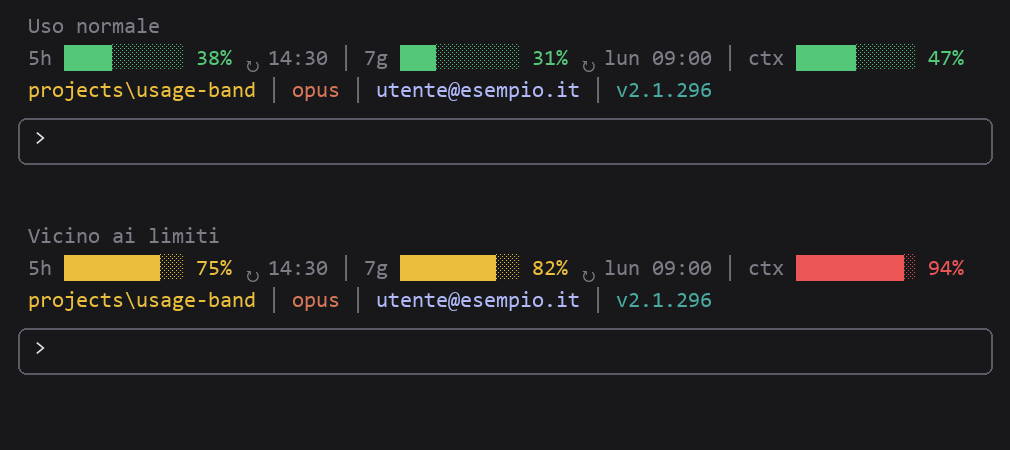
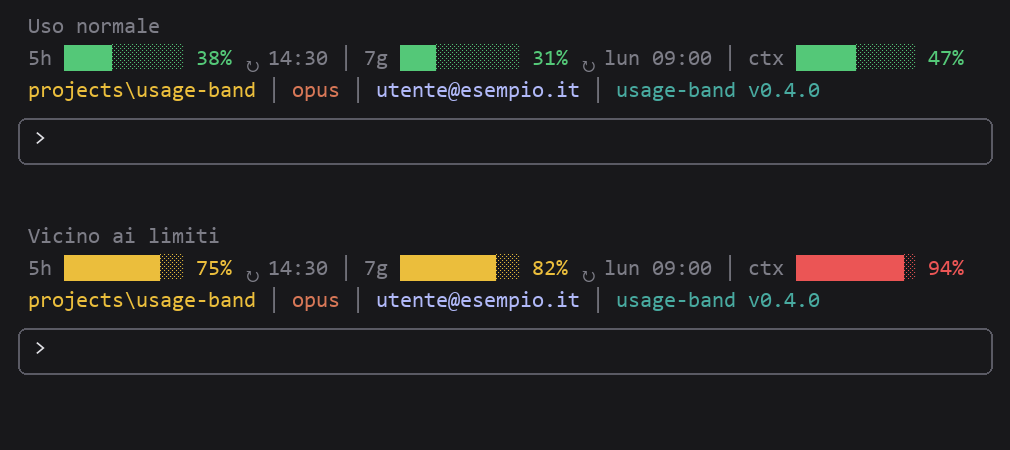
Versione 0.4.0: versione del mod in fondo alla barra, email da claude auth status
- Mostra la versione del mod (letta dal plugin.json) al posto di quella di Claude Code
- Email dell'account ricavata all'avvio con `claude auth status`, ripiego sul blocco userEmail
- Tolto il ricalcolo forzato del contesto
- Illustrazione, README e CHANGELOG aggiornati

Changed region(s): [[0.6139, 0.6533, 0.8287, 0.6844], [0.6139, 0.1867, 0.8287, 0.2178]]

diff --git a/hooks/register.test.ts b/hooks/register.test.ts
@@ -21,19 +21,14 @@ test('la barra mostra le tre percentuali con i colori per soglia', async ($, on)
   on('session.start', () => ({ cwd: '' }))
   on('session.cwd', () => ({ value: 'C:\\Users\\maurizio\\Claude\\mio-progetto' }))
   on('session.model', () => ({ value: 'opus' }))
-  on('session.version', () => ({ value: { version: '2.1.296' } }))
+  on('fs.read', () => ({ value: JSON.stringify({ name: 'usage-band', version: '9.9.9' }) }))
+  on('process.run', () => ({ value: { exitCode: 0, stdout: JSON.stringify({ loggedIn: true, email: 'maurizio@mavida.com' }), stderr: '' } }))
   on('command.register', () => ({ value: { command: 'usage-band' } }))
   on('session.usage', () => ({ value: { startedAt: 0, context: { window: 200000 }, rateLimits: [] } }))
   on('session.measure', (_$, e) => ({ changed: e.changed }))
-  on('prompt.context', (_$, e) => ({ blocks: e.blocks }))
 
   await $.session.start(START)
   await $.session.measure(MEASURE)
-  // Il blocco userEmail come lo scrive il motore
-  await $.prompt.context({
-    blocks: [{ name: 'userEmail', text: "The user's email address is maurizio@mavida.com. Use it only to identify the user." }],
-  } as never)
-
   const ui = await $.ui.mount({
     plugin: 'usage-band',
     surface: 'terminal',
@@ -51,8 +46,8 @@ test('la barra mostra le tre percentuali con i colori per soglia', async ($, on)
   // Modello corrente ed email dell'account, ognuno col suo colore
   expect(await ui.find({ text: 'opus' })).toBeDefined()
   expect(await ui.find({ text: 'maurizio@mavida.com' })).toBeDefined()
-  // Versione di Claude Code in fondo
-  expect(await ui.find({ text: 'v2.1.296' })).toBeDefined()
+  // Versione del mod in fondo, letta dal suo plugin.json
+  expect(await ui.find({ text: 'usage-band v9.9.9' })).toBeDefined()
 
   // I tre colori per soglia compaiono nell'albero disegnato
   const tree = JSON.stringify(await ui.drawn())
@@ -68,7 +63,8 @@ test('senza alcun dato la barra resta visibile con n/d', async ($, on) => {
   on('session.start', () => ({ cwd: '' }))
   on('session.cwd', () => ({ value: 'C:\\Users\\maurizio\\Claude\\mio-progetto' }))
   on('session.model', () => ({ value: 'opus' }))
-  on('session.version', () => ({ value: { version: '2.1.296' } }))
+  on('fs.read', () => ({ value: JSON.stringify({ name: 'usage-band', version: '9.9.9' }) }))
+  on('process.run', () => ({ value: { exitCode: 0, stdout: JSON.stringify({ loggedIn: true, email: 'maurizio@mavida.com' }), stderr: '' } }))
   on('command.register', () => ({ value: { command: 'usage-band' } }))
   on('session.usage', () => ({ value: { startedAt: 0, context: { window: 200000 }, rateLimits: [] } }))
   await $.session.start(START)
@@ -88,7 +84,8 @@ test('/usage-band nasconde e rimostra la barra', async ($, on) => {
   on('session.start', () => ({ cwd: '' }))
   on('session.cwd', () => ({ value: 'C:\\Users\\maurizio\\Claude\\mio-progetto' }))
   on('session.model', () => ({ value: 'opus' }))
-  on('session.version', () => ({ value: { version: '2.1.296' } }))
+  on('fs.read', () => ({ value: JSON.stringify({ name: 'usage-band', version: '9.9.9' }) }))
+  on('process.run', () => ({ value: { exitCode: 0, stdout: JSON.stringify({ loggedIn: true, email: 'maurizio@mavida.com' }), stderr: '' } }))
   on('command.register', () => ({ value: { command: 'usage-band' } }))
   on('session.usage', () => ({ value: { startedAt: 0, context: { window: 200000 }, rateLimits: [] } }))
   on('session.measure', (_$, e) => ({ changed: e.changed }))
@@ -116,7 +113,8 @@ test('su un terminale largo tutto sta su una riga, su uno stretto vanno due righ
   on('session.start', () => ({ cwd: '' }))
   on('session.cwd', () => ({ value: 'C:\Users\maurizio\Claude\mio-progetto' }))
   on('session.model', () => ({ value: 'opus' }))
-  on('session.version', () => ({ value: { version: '2.1.296' } }))
+  on('fs.read', () => ({ value: JSON.stringify({ name: 'usage-band', version: '9.9.9' }) }))
+  on('process.run', () => ({ value: { exitCode: 0, stdout: JSON.stringify({ loggedIn: true, email: 'maurizio@mavida.com' }), stderr: '' } }))
   on('command.register', () => ({ value: { command: 'usage-band' } }))
   on('session.usage', () => ({ value: { startedAt: 0, context: { window: 200000 }, rateLimits: [] } }))
 

diff --git a/hooks/register.tsx b/hooks/register.tsx
@@ -9,8 +9,11 @@ const snapshot = atom({ plugin: 'usage-band', key: 'snapshot' } as const, null)
 // True quando la barra è nascosta con /usage-band
 const isHidden = atom({ plugin: 'usage-band', key: 'isHidden' } as const, false)
 
-// Email dell'account corrente, nota solo dopo il primo prompt della conversazione
+// Email dell'account corrente, nota quando `claude auth status` risponde
 const email = atom({ plugin: 'usage-band', key: 'email' } as const, null)
+
+// Versione del mod, letta dal suo plugin.json all'avvio
+const version = atom({ plugin: 'usage-band', key: 'version' } as const, null)
 
 // Larghezza massima, in colonne, della riga dei consumi (5h, 7g e ctx con i reset)
 const USAGE_ROW_WIDTH = 90
@@ -66,11 +69,26 @@ export const register: Register = on => {
       description: 'Mostra o nasconde la barra di uso sopra il prompt',
     })
     const result = await next(e)
-    // Fa ricalcolare il contesto al prossimo prompt: il blocco userEmail passa dal hook prompt.context
-    // anche quando il mod viene caricato a sessione già avviata
-    $.ui.invalidate('prompt.context')
     const usage = await $.session.usage()
     await update($, snapshot, () => toSnapshot(usage.context, usage.rateLimits))
+
+    // Versione del mod, dal suo plugin.json (il file è del plugin, quindi leggibile)
+    const manifest = JSON.parse(await $.fs.read(`${$.plugin.root}/.claude-plugin/plugin.json`))
+    await update($, version, () => manifest.version ?? null)
+
+    // Email dell'account da `claude auth status`, senza bloccare l'avvio; se il comando non c'è
+    // o fallisce resta il ripiego del hook prompt.context
+    void (async () => {
+      try {
+        const { stdout } = await $.process.run(['claude', 'auth', 'status'])
+        const found = JSON.parse(stdout).email
+        if (found) {
+          await update($, email, () => found)
+        }
+      } catch {
+        // nessun comando claude nel PATH o output non JSON: l'email resta non nota
+      }
+    })()
 
     return result
   })
@@ -113,7 +131,7 @@ export const register: Register = on => {
     const data = await read($, snapshot)
     const folder = folderLabel(await $.session.cwd())
     const model = await $.session.model()
-    const { version } = await $.session.version()
+    const modVersion = await read($, version)
     const account = await read($, email)
     const { Box, Text } = $.ui.resolve(e)
 
@@ -142,7 +160,8 @@ export const register: Register = on => {
       </Text>
     )
 
-    // Riga dell'ambiente: cartella (gialla), modello (arancio), email se nota (azzurra) e versione di Claude Code (verde acqua)
+    // Riga dell'ambiente: cartella (gialla), modello (arancio), email (azzurra) e versione del mod (verde acqua);
+    // email e versione compaiono quando sono note
     const envRow = (
       <Text>
         <Text color="warning">{folder}</Text>
@@ -150,13 +169,15 @@ export const register: Register = on => {
         <Text color="claude">{model}</Text>
         {account ? <Text dimColor> │ </Text> : null}
         {account ? <Text color="suggestion">{account}</Text> : null}
-        <Text dimColor> │ </Text>
-        <Text color="planMode">v{version}</Text>
+        {modVersion ? <Text dimColor> │ </Text> : null}
+        {modVersion ? <Text color="planMode">usage-band v{modVersion}</Text> : null}
       </Text>
     )
 
     // Tutto su una riga se c'è posto, altrimenti due righe: una riga troppo lunga andrebbe a capo e si perderebbe la coda
-    const envLength = [folder, model, account, `v${version}`].filter(Boolean).join(' │ ').length
+    const envLength = [folder, model, account, modVersion && `usage-band v${modVersion}`]
+      .filter(Boolean)
+      .join(' │ ').length
     const isWide = USAGE_ROW_WIDTH + 3 + envLength <= (e.viewport?.columns ?? 0)
 
     return isWide ? (

diff --git a/types/index.d.ts b/types/index.d.ts
@@ -6,6 +6,6 @@ export type Snapshot = { context?: number; fiveHour?: Limit; sevenDay?: Limit }
 
 declare module 'claude-code' {
   interface PluginState {
-    'usage-band': { snapshot: Snapshot | null; isHidden: boolean; email: string | null }
+    'usage-band': { snapshot: Snapshot | null; isHidden: boolean; email: string | null; version: string | null }
   }
 }

diff --git a/README.md b/README.md
@@ -11,9 +11,9 @@ L'immagine è un'illustrazione con valori di esempio.
 - **ctx**: percentuale di riempimento della finestra di contesto della conversazione.
 - **cartella**: cartella di lavoro con la sua cartella padre, in giallo.
 - **modello**: il modello in uso, come lo mostra `/model`, in arancio.
-- **email**: l'account corrente, in azzurro. Compare dopo il primo prompt della conversazione,
-  perché il motore la fornisce nel contesto del primo messaggio.
-- **versione**: versione di Claude Code, in verde acqua.
+- **email**: l'account corrente, in azzurro, ricavata all'avvio con `claude auth status`
+  (serve `claude` nel `PATH`; altrimenti compare dopo il primo prompt, dal contesto del messaggio).
+- **versione**: versione del mod (`usage-band vX.Y.Z`), in verde acqua.
 
 I colori seguono il tema: verde sotto il 70%, giallo tra 70% e 90%, rosso da 90%.
 Una voce senza dato mostra `n/d`.

diff --git a/CHANGELOG.md b/CHANGELOG.md
@@ -2,6 +2,15 @@
 
 Formato basato su [Keep a Changelog](https://keepachangelog.com/it/1.1.0/).
 
+## [0.4.0] - 2026-10-13
+
+### Modificato
+- In fondo alla barra la versione mostrata è quella del mod (`usage-band v0.4.0`, letta dal suo `plugin.json`) al posto di quella di Claude Code.
+- L'email dell'account si ricava all'avvio con `claude auth status`, senza bloccare l'avvio; il blocco `userEmail` del contesto resta come ripiego. Non si forza più il ricalcolo del contesto.
+- L'illustrazione `docs/usage-band.png` mostra la versione del mod.
+
+![La barra sopra il prompt, con uso normale e vicino ai limiti](docs/usage-band.png)
+
 ## [0.3.0] - 2026-10-13
 
 ### Aggiunto
